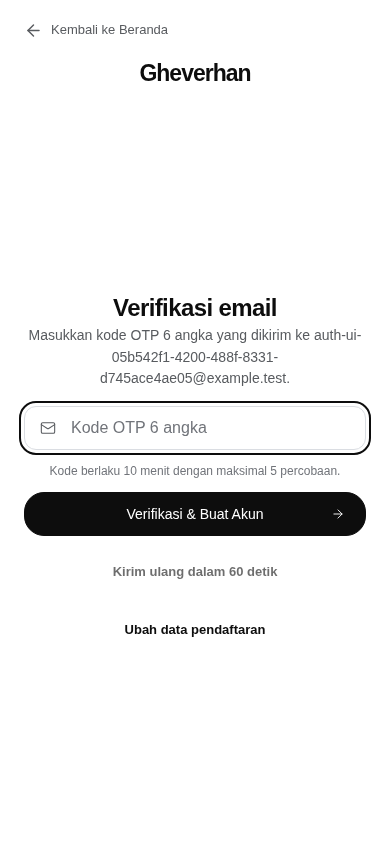
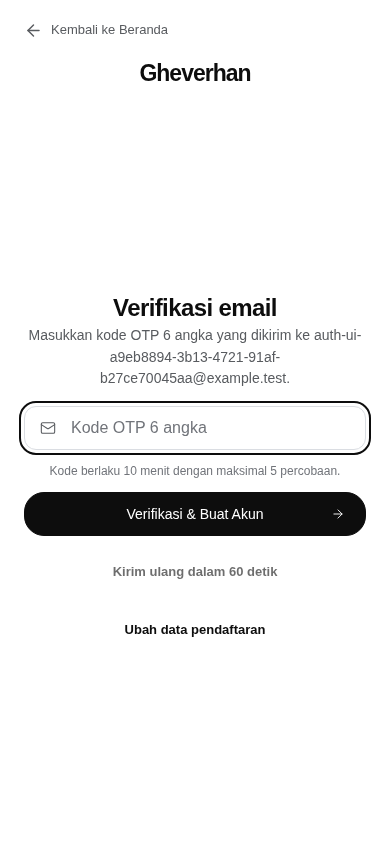
docs(auth): document generation binding and refresh validated UI evidence

Changed region(s): [[0.2462, 0.4005, 0.7077, 0.4621]]

diff --git a/docs/auth/registration-email-otp/README.md b/docs/auth/registration-email-otp/README.md
@@ -8,6 +8,7 @@ Baseline PR #70: `ebb1fff74890c0775e41c6772f2bd32004613b95`. Main saat recovery:
 |---|---|
 | Dua request bersamaan lolos pemeriksaan cooldown lalu saling menimpa upsert | Reservasi awal memakai unique email/CAS untuk row lama. Regresi terhadap service baseline menghasilkan dua sukses; kandidat harus tepat satu. |
 | Hash OTP langsung aktif sebelum respons provider; kode dapat dipakai walau email akhirnya gagal | Reservasi acak `sending:...` tidak dapat diverifikasi. HMAC diaktifkan dengan CAS hanya sesudah delivery sukses. Regresi baseline menunjukkan verifikasi diterima saat delivery masih tertahan; kandidat menolaknya untuk request dan resend. |
+| OTP hanya terikat email, sehingga request pengganti dapat memverifikasi password/data berbeda pada layar lama | Challenge UUID acak per pendaftaran, dirotasi ketika data diganti dan ikut dalam HMAC. Verify/resend form/API wajib membawa challenge asal. Reproduksi terhadap5ffac3d berhasil membuat akun ber-password pengganti; regresi kandidat menolak kode terbaru pada challenge lama. |
 | Snapshot kredensial dibaca sebelum transaksi verifikasi | `SELECT ... FOR UPDATE`, cek expiry/attempts setelah memperoleh lock, konsumsi pending + User/customer/cart/wishlist/audit dalam satu transaksi pendek. Tidak menahan transaksi ketika hashing/password atau mengirim email. |
 | Kontrak validasi API/form terpisah | `registration-schema.ts` dipakai service, Server Actions dan ketiga endpoint registrasi; terms boolean eksplisit, phone/confirmation wajib, email ternormalisasi. Password baru dibatasi 72 byte agar tidak terpotong diam-diam oleh bcrypt; password akun lama tidak diubah. |
 | Nomor baru disimpan +62, login sebelumnya mencocokkan format persis | Pertahankan prioritas pencocokan akun lama, lalu fallback nomor ternormalisasi. Semua alias format memakai kuota login yang sama; 10 percobaan salah dengan variasi spasi tetap mengunci format +62. |
@@ -18,16 +19,16 @@ Baseline PR #70: `ebb1fff74890c0775e41c6772f2bd32004613b95`. Main saat recovery:
 
 ## Kontrak dan kontrol
 
-- Request registrasi REST mengembalikan202 + verificationRequired, tanpa User atau cookie session. Form berpindah ke langkah OTP. Verifikasi yang sukses membuat User dan `emailVerifiedAt`, baru kemudian membuat session. Replay ditolak di form maupun API.
-- OTP 6 angka, TTL 10 menit, maksimum 5 percobaan pada challenge, resend minimal 60 detik. Register+resend berbagi batas 3/identity/jam dan 30 global/menit; konfirmasi 12/identity/jam dan 240 global/menit sesuai kebijakan branch awal. Counter salah tetap commit meskipun respons ditolak.
-- OTP disimpan sebagai HMAC-SHA256 dengan domain register dan JWT_SECRET; password sebagai bcrypt. Tidak mengirim kode/hash/password kembali lewat API/action atau artifact. Marker pengiriman berisi nonce, bukan OTP. Gagal kirim menghapus hanya reservasi yang cocok; marker yang belum diaktifkan tetap tidak bisa diverifikasi bila cleanup/database gagal.
+- Request registrasi REST mengembalikan202 + verificationRequired + challengeId, tanpa User atau cookie session. Form berpindah ke langkah OTP. Verifikasi yang sukses membuat User dan `emailVerifiedAt`, baru kemudian membuat session. Replay ditolak di form maupun API.
+- OTP 6 angka, TTL 10 menit, maksimum 5 percobaan pada challenge, resend minimal 60 detik. Register+resend berbagi batas 3/identity/jam dan 30 global/menit; konfirmasi 12/identity/jam dan 240 global/menit sesuai kebijakan branch awal. Counter salah tetap commit meskipun respons ditolak. Guard challenge memiliki kuota tersendiri; ID yang tidak dikenal ditolak sebelum menyentuh kuota email, sehingga tidak dapat mengunci challenge pengguna hanya dengan mengetahui email.
+- OTP disimpan sebagai HMAC-SHA256 dengan domain register, email, challenge UUID dan JWT_SECRET; password sebagai bcrypt. Tidak mengirim kode/hash/password kembali lewat API/action atau artifact. Marker pengiriman berisi nonce, bukan OTP. Gagal kirim menghapus hanya reservasi yang cocok; marker yang belum diaktifkan tetap tidak bisa diverifikasi bila cleanup/database gagal.
 - Endpoint baru memakai assertMutationOrigin. Browser lintas Origin ditolak; klien non-browser tanpa Origin tetap mengikuti helper yang sudah ada.
 - Akun lama dengan phone/emailVerifiedAt null tetap dapat login. Tidak ada perubahan JWT/sessionVersion/revocation, logout, reset-password, RBAC, order/payment/stok.
 - Email OTP membuktikan akses inbox saat registrasi, bukan identitas hukum atau kepemilikan nomor HP. Nomor HP belum diverifikasi untuk WhatsApp. Google/WhatsApp tetap nonaktif.
 
 ## Migration dan readiness
 
-Migration: `20261018150000_registration_email_otp` (ketujuh). Menambah nullable `User.emailVerifiedAt` serta `PendingRegistration` (unique email, expiry index, primary key dan RLS tanpa policy publik). Tidak backfill verified timestamp atau mewajibkan phone bagi akun lama; pending tidak memiliki FK ke User karena akun belum ada.
+Migration: `20261018150000_registration_email_otp` (ketujuh). Menambah nullable `User.emailVerifiedAt` serta `PendingRegistration` (unique email, expiry index, primary key dan RLS tanpa policy publik). PendingRegistration.id memakai UUID dari aplikasi/Prisma (kolom SQL tetap TEXT, tidak perlu migration kedelapan). Tidak backfill verified timestamp atau mewajibkan phone bagi akun lama; pending tidak memiliki FK ke User karena akun belum ada.
 
 Migration baru di PR ini diberi BEGIN/COMMIT, lock_timeout 5s dan statement_timeout 30s. Penambahan nullable column bersifat metadata, tetapi ALTER TABLE tetap memerlukan lock eksklusif singkat. Seluruh SQL harus diterapkan oleh operator terpercaya sebelum source OTP aktif. Preflight memeriksa ledger/checksum, kolom/index dan hak CRUD/RLS; tidak menjalankan migrasi otomatis saat startup.
 
@@ -36,7 +37,7 @@ Checksum kandidat: `eec85ff983628830923da3c7b0760bfc20378bdcf9cb7376dd6b1cca539e
 
 **Perubahan checksum hanya untuk migration baru dalam Draft PR ini.** Sebelum release, pastikan versi awal belum diaplikasikan pada database target/shared. Jika sudah, hentikan cutover dan review rekonsiliasi migration; jangan menimpa ledger atau checksum history. Tidak memeriksa/mengubah database production dalam pekerjaan ini.
 
-Drill PostgreSQL17 disposable: fresh 7 migrations; upgrade6→7 mempertahankan akun legacy (phone/timestamp null); tahan lock User sehingga migration gagal pada batas 5s; seluruh DDL rollback; tandai kegagalan lokal sebagai rolled-back sesudah membuktikan rollback; deploy ulang dan retry no-op menghasilkan 7 migration aktif. Prisma 5 dapat menutupi pesan lock timeout dengan pesan transaksi aborted saat mencoba menulis kegagalan; periksa kondisi skema/ledger dan log PostgreSQL, bukan hanya pesan CLI. Resolve pada production memerlukan keputusan operator dan izin khusus, bukan langkah otomatis.
+Drill PostgreSQL17 disposable: fresh 7 migrations; upgrade6→7 mempertahankan akun legacy (phone/timestamp null); tahan lock User sehingga migration gagal pada batas 5s; seluruh DDL rollback; tandai kegagalan lokal sebagai rolled-back sesudah membuktikan rollback; deploy ulang dan retry no-op menghasilkan 7 migration aktif. Prisma 5 dapat menutupi pesan lock timeout dengan pesan transaksi aborted saat mencoba menulis kegagalan; periksa kondisi skema/ledger dan log PostgreSQL, bukan hanya pesan CLI. Pending dari prototype tanpa challenge binding harus memulai ulang pendaftaran; tidak mengubah atau mencabut sesi akun lama. Resolve pada production memerlukan keputusan operator dan izin khusus, bukan langkah otomatis.
 
 Rollback aplikasi ke alur registrasi lama akan membuka registrasi tanpa OTP; jangan melakukannya sebagai fallback diam-diam. Utamakan maintenance tertutup dan roll-forward yang tetap menghormati revocation serta kebijakan OTP. Tidak drop tabel/kolom atau mengubah data live.
 
@@ -48,13 +49,13 @@ Kesiapan sender production, identitas database, role efektif dan penerapan migra
 
 ## Validasi
 
-Node.js 22.22.0, PostgreSQL 17.11 disposable sendiri, Chromium 153.0.8010.12; tidak menggunakan data/credential production. Unit memakai container network-none/read-only/uid1000/cap-drop dan batas resource.
+Node.js 22.22.0, PostgreSQL 17.11 disposable sendiri, Chromium 153.0.8010.12; tidak menggunakan data/credential production. Unit memakai container network-none/read-only/uid1000/cap-drop dan batas resource. Suite lifecycle OTP membuat database lokal unik sendiri agar counter global nyata tidak tercampur dengan suite browser; tidak menghapus atau menaikkan batas rate limit aplikasi.
 
-- 241 unit, 25 containment, 9 mitigation PASS.
-- 12 auth/security PostgreSQL, 11 OTP/phone security, 7 preflight dan 1 migration recovery PASS.
-- 11 kelompok browser PASS: REST tidak bypass OTP, required phone/confirmation/terms client+server, state form saat error, OTP salah/expired/replay, resend API/cooldown form, email gagal, session hanya sesudah OTP, duplicate email, login email/nomor lokal, logout, reset/revocation, legal/footer, link hover/focus/active serta CTA contrast.
+- 243 unit, 25 containment, 9 mitigation PASS.
+- 12 auth/security PostgreSQL, 13 OTP/phone security, 7 preflight dan 1 migration recovery PASS.
+- 11 kelompok browser PASS: REST tidak bypass OTP, required phone/confirmation/terms client+server, state form saat error, OTP salah/expired/replay dan penolakan challenge lama/asing/hilang, resend API sukses/cooldown form, email gagal, session hanya sesudah OTP, duplicate email, login email/nomor lokal, logout, reset/revocation, legal/footer, link hover/focus/active serta CTA contrast.
 - 8 viewport 360×800,375×812,390×844,430×932,768×1024,1024×768,1440×900,1920×1080 untuk login/register dan OTP; tidak ada horizontal overflow atau console/page error. Kembali ke Beranda visible dan target 44px. Link legal tetap membuka tab terpisah tanpa implicit consent.
-- TypeScript, ESLint dan production build PASS sebelum freeze; verifikasi diulang pada HEAD final/CI. Hasil final per SHA dan tautan kedua workflow dicatat di PR agar tidak mengklaim hasil SHA lama sebagai bukti source baru.
+- TypeScript, ESLint dan production build PASS sebelum freeze; verifikasi diulang pada HEAD final/CI. Hasil final per SHA dan tautan kedua workflow dicatat di PR agar tidak mengklaim hasil SHA lama sebagai bukti source baru. SHA5ffac3d bukan final: source dibekukan ulang setelah perbaikan challenge binding.
 - CI mempertahankan seluruh gate product/cart, operations/payment, PostgreSQL, hydration dan navigasi 10×44; menambah lifecycle OTP dan migration recovery. Test gagal tidak dihapus/dilewati.
 
 RCA pengujian: validasi form menemukan reset consent native yang harus dibatalkan lewat listener native (synthetic handler saja tidak cukup pada runtime saat ini). Pemeriksaan hover semula membaca warna awal transisi; kini menunggu warna target, tanpa mengubah ekspektasi. Drift fixture telepon antarrun dihindari dengan nomor dummy acak, bukan menghapus data shared. Pemeriksaan lock tidak bergantung pada pesan Prisma yang menutupi error awal, tetapi juga deadline, rollback dan retry.
